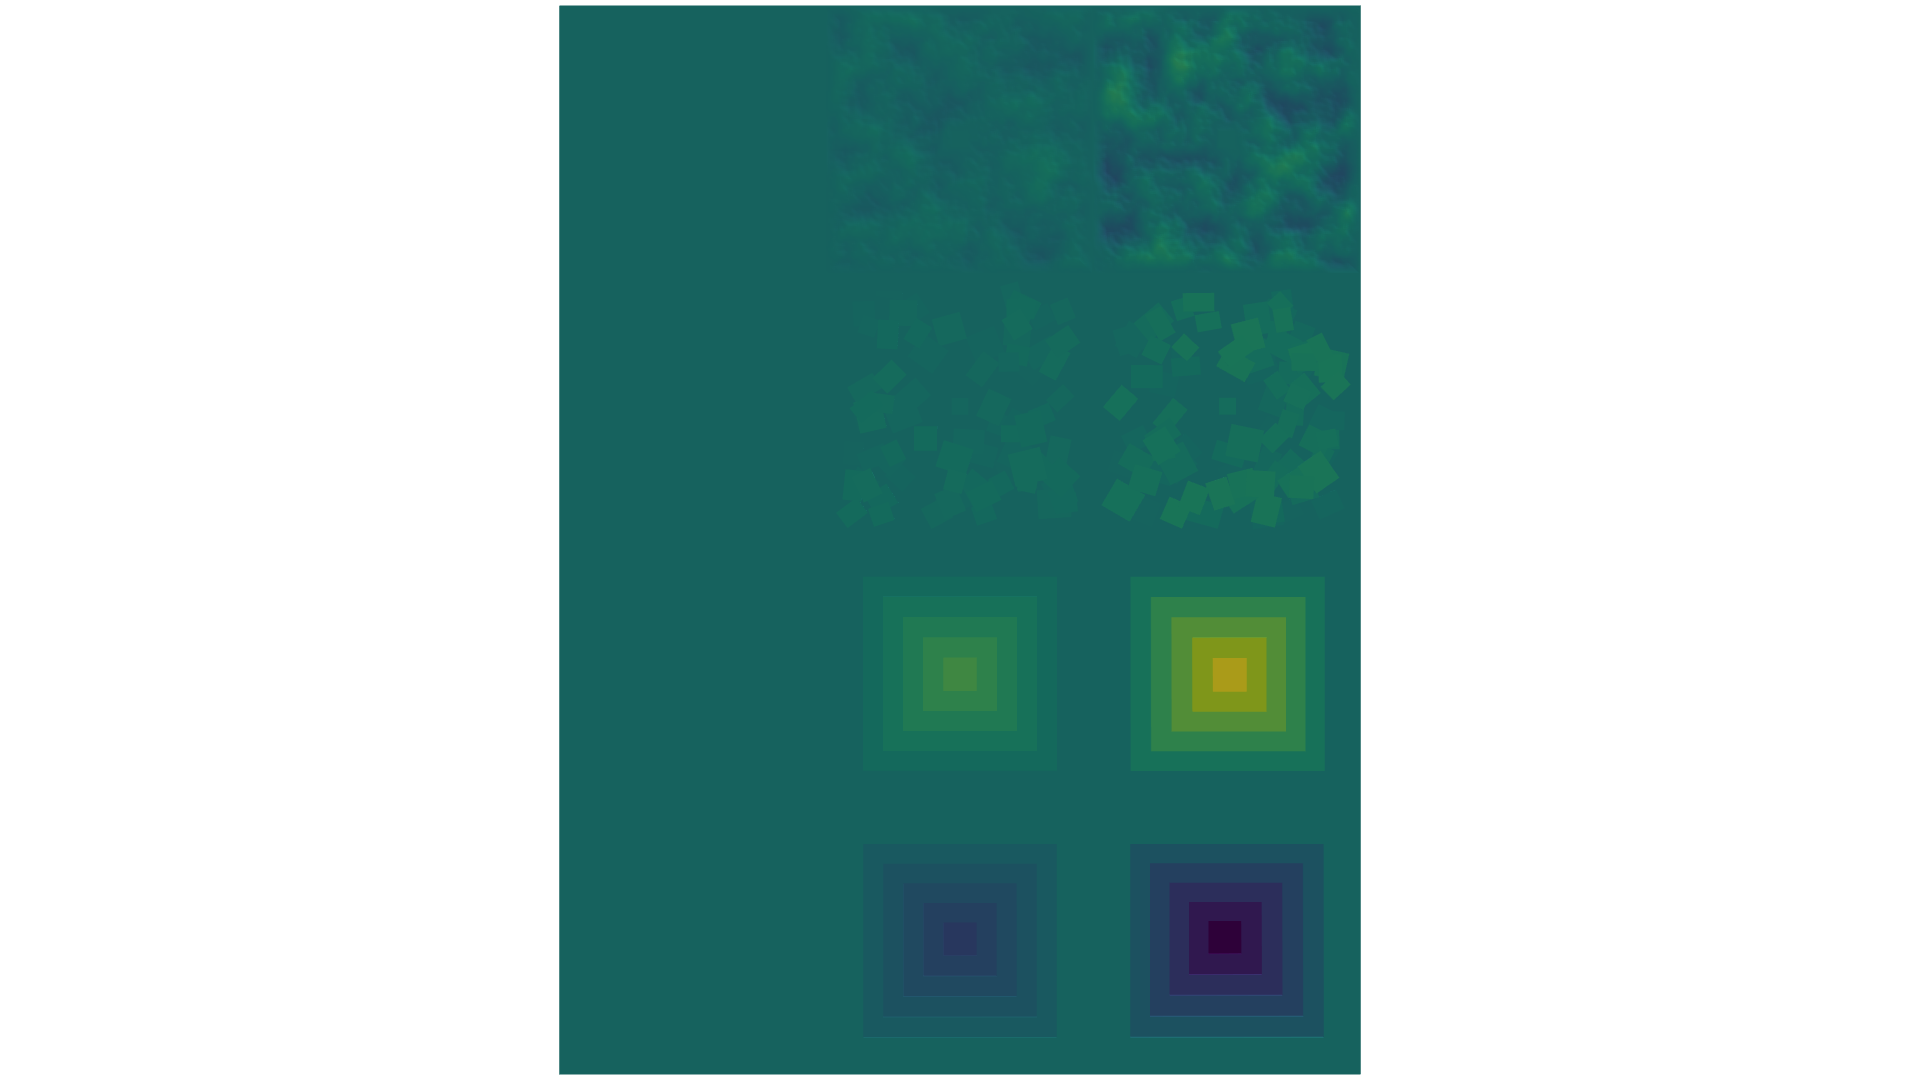
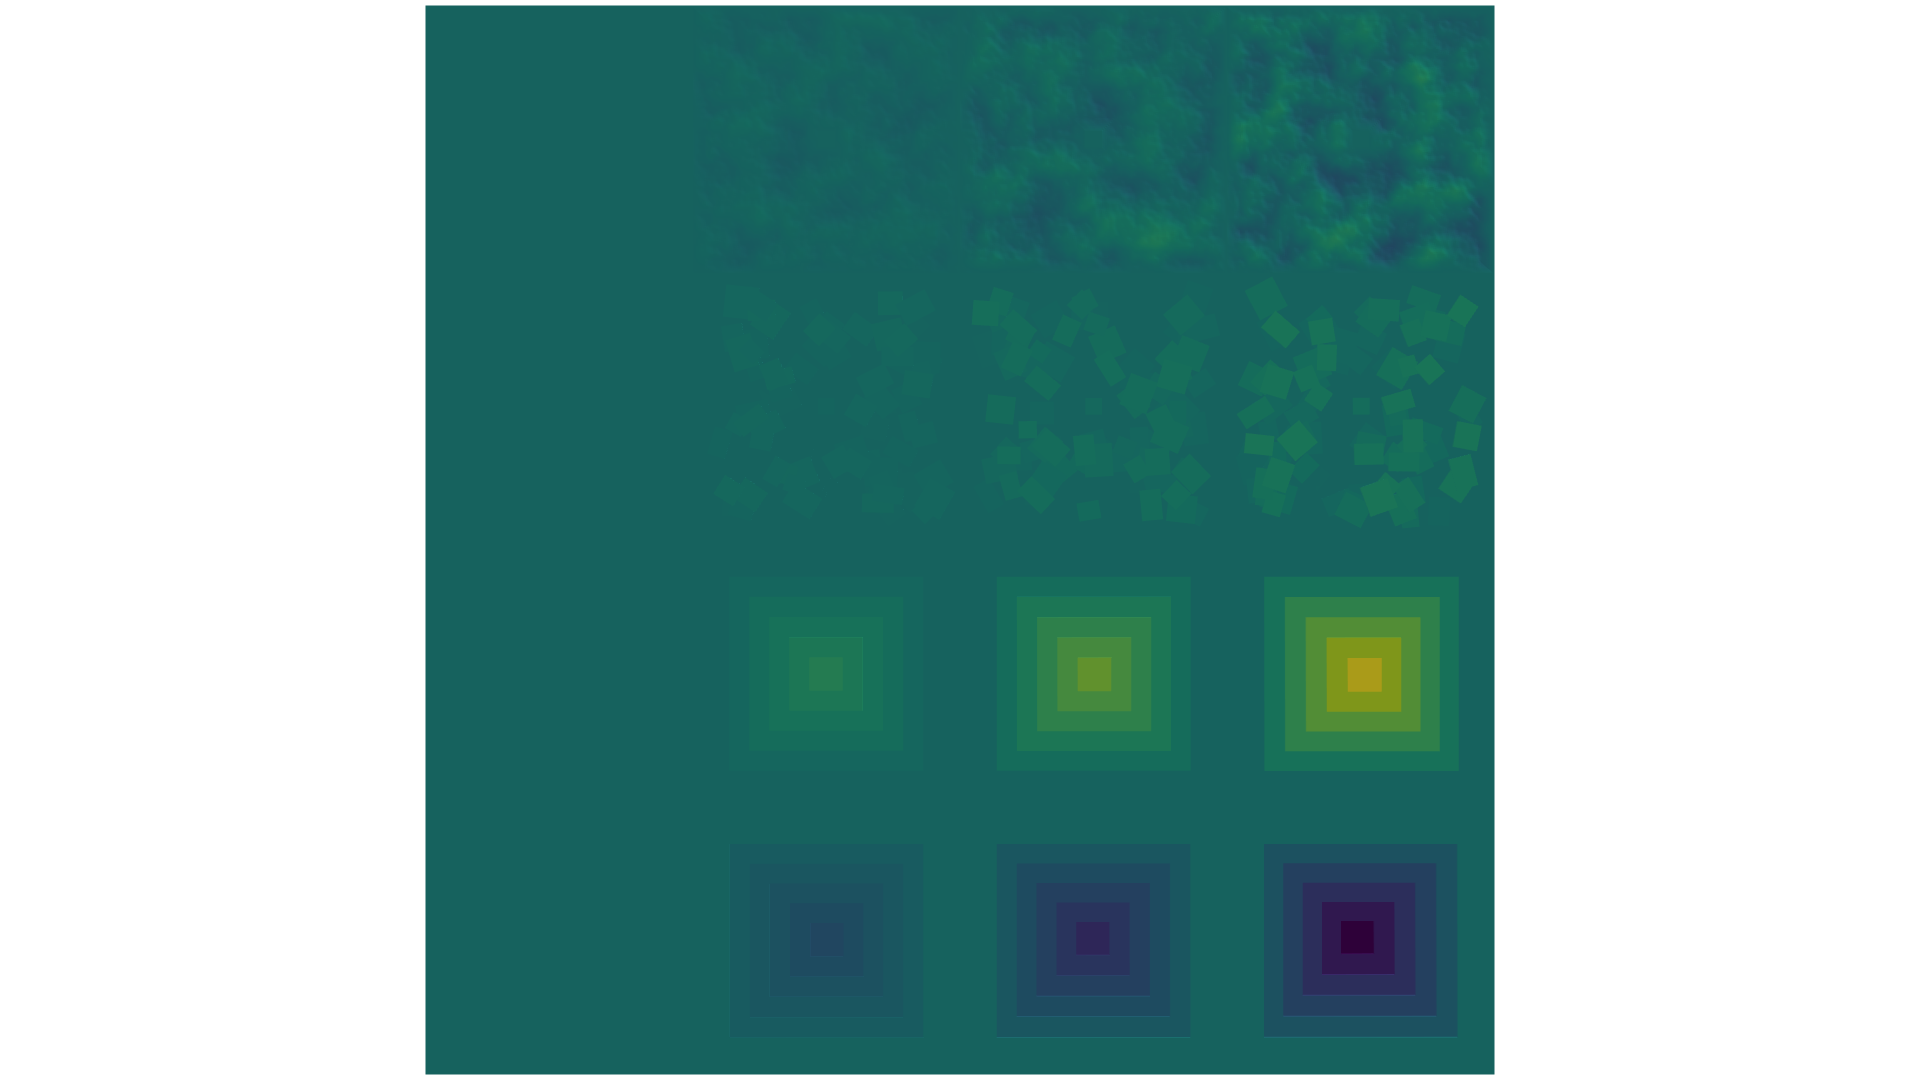
Cleanup repository

diff --git a/terrain_heightmap.py b/terrain_heightmap.py
@@ -43,7 +43,9 @@ def generate_heightmap(mesh, xy_range=((0, 8), (0, 8)), resolution=30, ray_offse
     ]
 
     X, Y = np.meshgrid(range(width), range(height))
-    Z = np.ones_like(X) * -np.inf
+    heightmap = np.ones_like(X) * -np.inf
+
+    # Calculate the XY coordinates from where the rays are launched
     ray_origins = np.array(
         [
             X.ravel() / resolution,
@@ -51,9 +53,9 @@ def generate_heightmap(mesh, xy_range=((0, 8), (0, 8)), resolution=30, ray_offse
             np.ones(width * height) * z_start,
         ]
     ).transpose()
-    ray_directions = np.tile(np.array([[0, 0, -1]]), (width * height, 1))
 
-    # mesh = trimesh.Trimesh(vertices=mesh.vertices, faces=mesh.faces, use_embree=True)
+    # Cast a ray downwards from above the mesh
+    ray_directions = np.tile(np.array([[0, 0, -1]]), (width * height, 1))
 
     for dx, dy in tqdm(offsets):
         # Check for intersections
@@ -63,57 +65,13 @@ def generate_heightmap(mesh, xy_range=((0, 8), (0, 8)), resolution=30, ray_offse
             multiple_hits=False,
         )
 
-        """vals, indexes = np.unique(locations[:, :2], axis=0, return_index=True)
-        maxes = np.zeros((len(indexes), 1))
-        for i, xy in enumerate(vals):
-            maxes[i, 0] = max(locations[np.all(locations[:, :2] == xy, axis=1), 2])
-        locations = np.hstack((locations[indexes, :2], maxes))"""
-
+        # Keep maximum height over tested offsets
         fidx = (locations[:, :2] * resolution).astype(np.int64)
-
-        Z[fidx[:, 0], fidx[:, 1]] = np.maximum(
-            Z[fidx[:, 0], fidx[:, 1]], locations[:, 2]
+        heightmap[fidx[:, 0], fidx[:, 1]] = np.maximum(
+            heightmap[fidx[:, 0], fidx[:, 1]], locations[:, 2]
         )
 
-        """from matplotlib import pyplot as plt
-        plt.imshow(Z)
-        plt.show()
-
-        from IPython import embed
-        embed()"""
-
-    return Z
-
-    for i in tqdm(range(width)):
-        for j in range(height):
-            highest_z = None
-            for dx, dy in offsets:
-                # Calculate the XY coordinates with offset
-                x = min_x + (i + dx) / resolution
-                y = min_y + (j + dy) / resolution
-
-                # Cast a ray downwards from above the mesh
-                ray_origins = np.array([[x, y, z_start]])
-                ray_directions = np.array([[0, 0, -1]])  # Downwards
-
-                # Check for intersections
-                locations, index_ray, index_tri = mesh.ray.intersects_location(
-                    ray_origins=ray_origins,
-                    ray_directions=ray_directions,
-                    multiple_hits=False,
-                )
-
-                # Update the highest Z-coordinate found
-                if len(locations) > 0:
-                    max_z = locations[:, 2].max()
-                    if highest_z is None or max_z > highest_z:
-                        highest_z = max_z
-
-            # Set the heightmap value if an intersection was found
-            if highest_z is not None:
-                heightmap[j, i] = highest_z
-
-    return Z
+    return heightmap.transpose()
 
 
 import matplotlib.pyplot as plt

diff --git a/generate_terrains.py b/generate_terrains.py
@@ -1,4 +1,4 @@
-import terrain_generators as tgen
+import generators.terrain_generators as tgen
 from terrain_heightmap import generate_heightmap, plot_heightmap
 import trimesh
 import numpy as np
@@ -12,9 +12,9 @@ from datetime import datetime
 params = {}
 params["terrainSize"] = 8.0
 params["borderSize"] = 10.0
-params["numLevels"] = 3
+params["numLevels"] = 4
 params["numTerrains"] = 4
-params["resolution"] = 0.01
+params["resolution"] = 100
 
 terrainProportions = {}
 terrainProportions["stairs_upwards"] = 0.25
@@ -97,7 +97,7 @@ hm = generate_heightmap(
         (0, params["numLevels"] * params["terrainSize"]),
         (0, params["numTerrains"] * params["terrainSize"]),
     ),
-    resolution=1,
+    resolution=params["resolution"],
 )
 
 fn = "images/terrains_" + time_str + "_heightmap.png"

diff --git a/generators/terrain_generators.py b/generators/terrain_generators.py
@@ -1,6 +1,6 @@
-from terrain_perlin import generate_perlin_terrain
-from terrain_stairs import generate_pyramid_stairs_terrain
-from terrain_blocks import generate_block_terrain
+from generators.terrain_perlin import generate_perlin_terrain
+from generators.terrain_stairs import generate_pyramid_stairs_terrain
+from generators.terrain_blocks import generate_block_terrain
 
 
 def stairs_upwards(difficulty):
